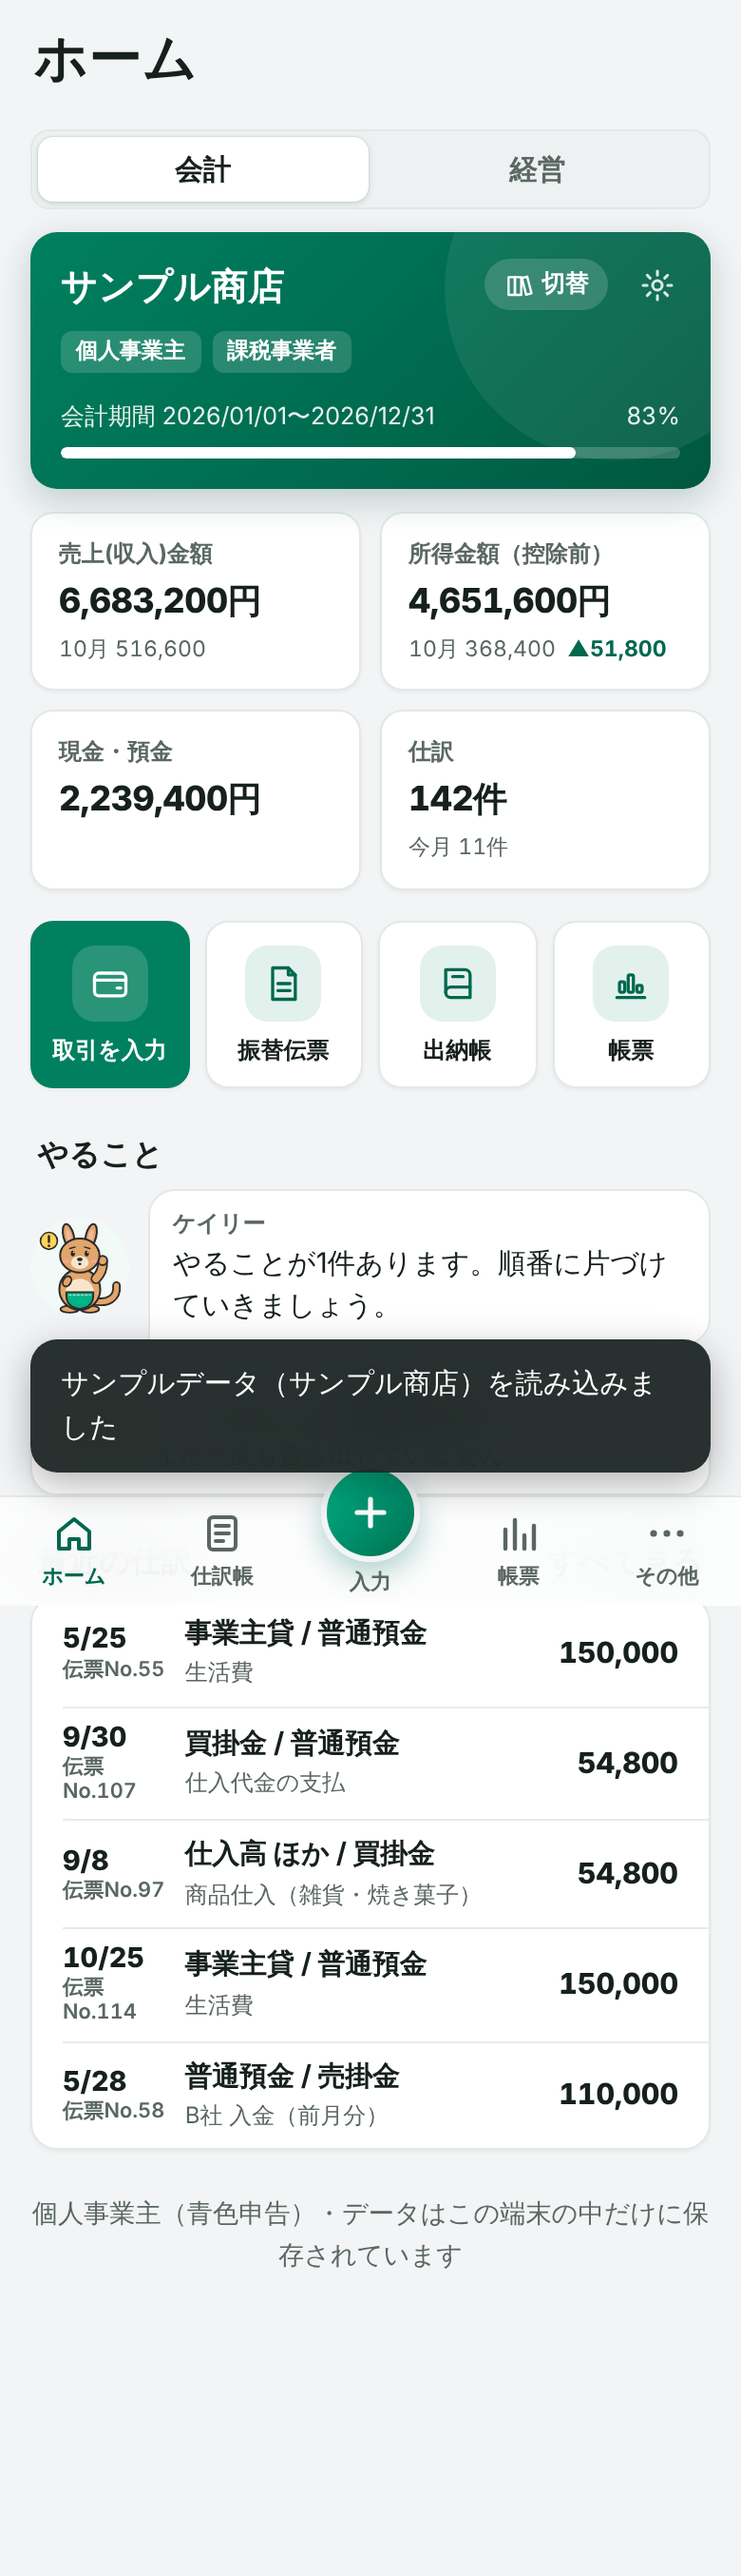
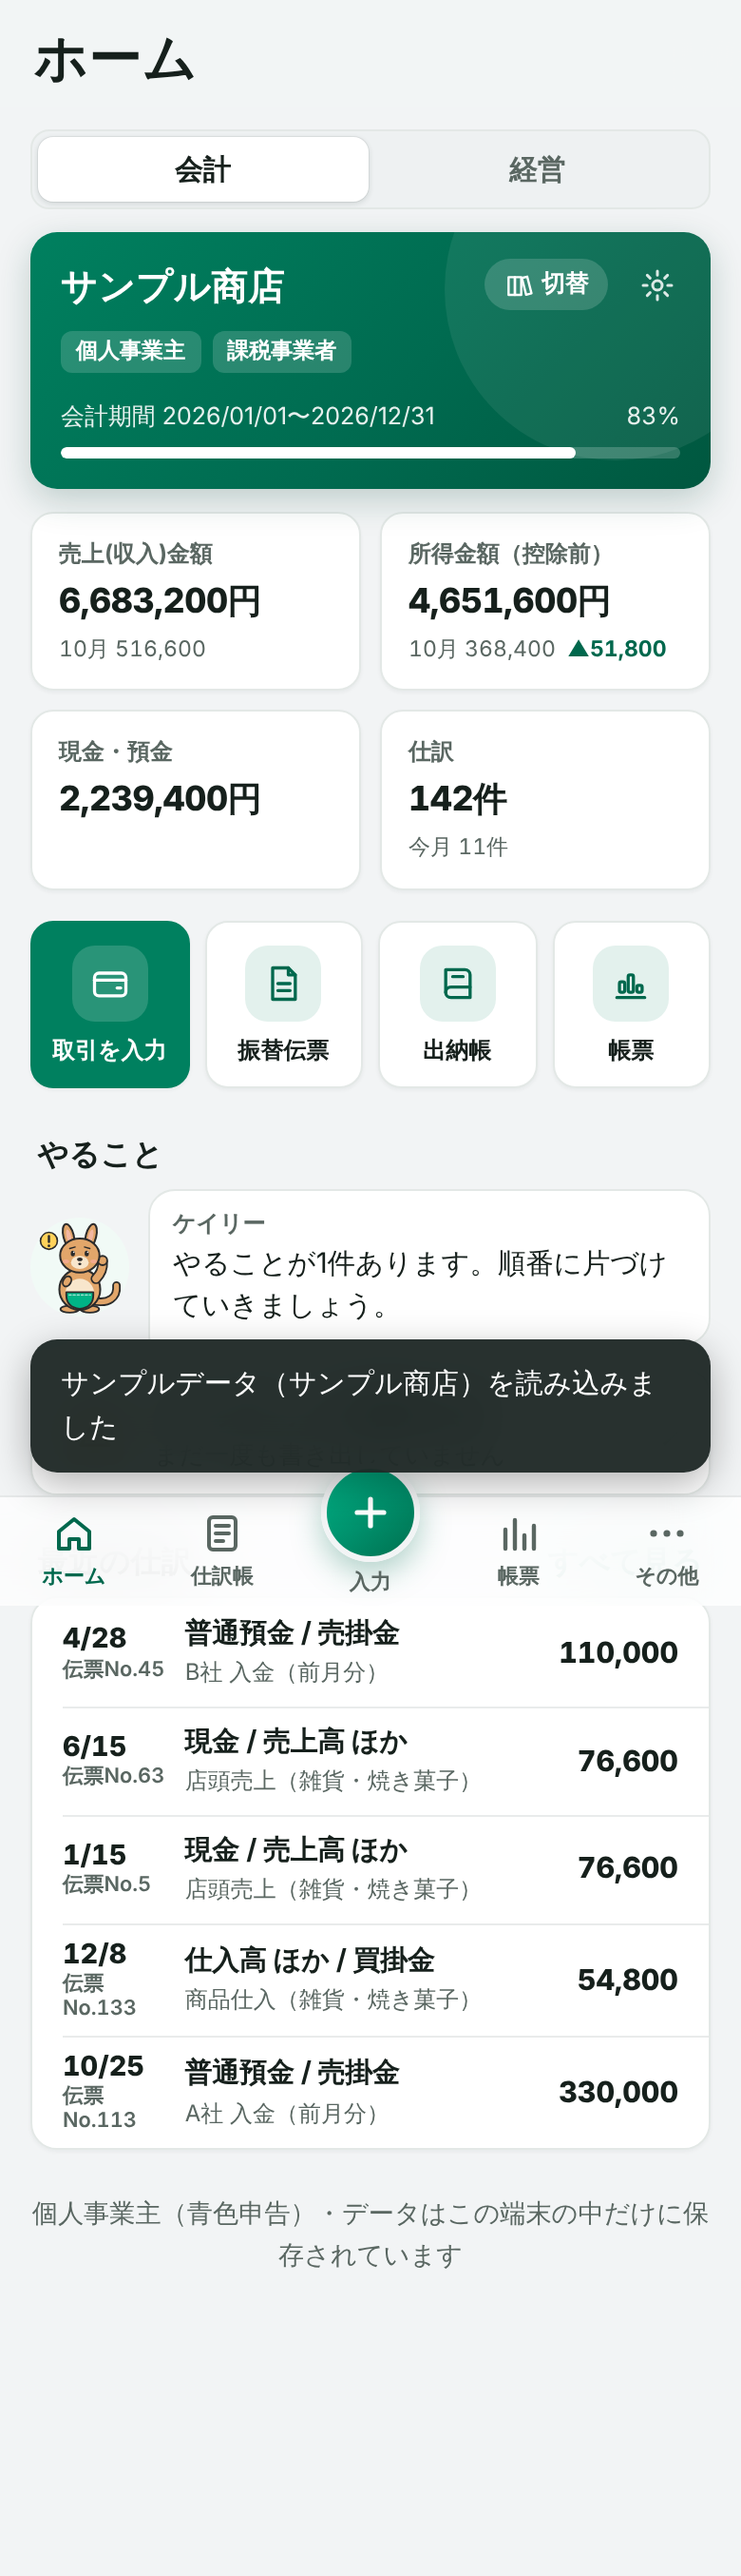
版を v0.93.0・キャッシュ v101 に。更新履歴・仕様書・スクリーンショット
Claude-Session: https://claude.ai/code/session_01S9p1vYnHBJ4ErFDDdxAS1g

diff --git a/js/changelog.js b/js/changelog.js
@@ -9,6 +9,16 @@
 
 export const CHANGELOG = [
   {
+    version: '0.93.0',
+    date: '2026-10-31',
+    title: '事業承継に、引き継ぐときの贈与税・相続税の概算と使える税制を追加',
+    items: [
+      '経営サポートの「事業承継」で、誰に引き継ぐか（子・孫・その他の親族・役員や従業員・第三者）を選ぶと、使える引継ぎ方ごとに税金の目安を並べます',
+      '暦年贈与（年数を分けた場合も）・相続時精算課税・相続（遺贈）・事業承継税制（特例措置）・株式の売却を比べられます。相続税は株式以外の財産と家族構成から計算し、親族外への遺贈は2割加算します',
+      '承継先に合わせて、事業承継税制の期限、精算課税、株価を下げてからの贈与、遺留分の特例、種類株式・持株会、事業承継・引継ぎ支援センターなどを案内します',
+    ],
+  },
+  {
     version: '0.92.0',
     date: '2026-10-31',
     title: '年計を「縦に科目・横に月」の表とグラフに',

diff --git a/sw.js b/sw.js
@@ -1,6 +1,6 @@
 // Service Worker
 // ファイルを変更したら CACHE_VERSION を上げる。ファイルを追加・削除したら PRECACHE_URLS も更新する（npm run check で検出）
-const CACHE_VERSION = 'v100';
+const CACHE_VERSION = 'v101';
 const CACHE_NAME = `pocket-kaikei-${CACHE_VERSION}`;
 
 // 事前にキャッシュするファイル（相対パス）

diff --git a/js/version.js b/js/version.js
@@ -1,2 +1,2 @@
 // 利用者に見せるバージョン。リリースのたびに上げる
-export const APP_VERSION = '0.92.0';
+export const APP_VERSION = '0.93.0';

diff --git a/docs/spec-phase4-advisor.md b/docs/spec-phase4-advisor.md
@@ -124,3 +124,28 @@
 - movingAnnual に rows（科目ごとの monthly・annual・change）を追加。前期だけにある科目も行に出す
 - 表は着地見込みの月別の表と同じ見た目（advisor-grid）。区分ごとの小計・利益の行、最後の列は「増減」（年計）か「合計」（各月の金額）。製造原価の区分は売上原価の前に並べる
 - グラフは js/chart.js の lineChart（1〜2本、null の月は線を切る、見込みの区間は破線）。「売上と利益」か、選んだ科目の年計
+
+## 第9弾：承継先ごとの贈与税・相続税の概算と使える税制（v0.93.0）
+
+- たかと（2026-10-31）：「株価の概算を出したら、承継した場合の相続税又は贈与税の概算も」「誰に承継するのかを選んで、概算や使えそうな税制を提案」
+- 計算は js/advisor/succession-tax.js（test/advisor-succession-tax.test.js）。入力は period.succession.plan（DB の版は不変）
+- 承継先と引継ぎ方
+  - 子：暦年贈与（特例税率）・相続時精算課税・相続・事業承継税制
+  - 孫：暦年贈与（特例税率）・相続時精算課税・遺贈（2割加算）・事業承継税制
+  - その他の親族、役員・従業員：暦年贈与（一般税率）・遺贈（2割加算）・事業承継税制・買取り（譲渡所得の税）
+  - 第三者：株式の売却のみ
+- 端数：課税価格は千円未満切捨て、税額は百円未満切捨て。相続税は法定相続分どおりの総額を株式の割合で按分（配偶者の税額軽減・小規模宅地等・生命保険の非課税は見ない）。子がいないときは配偶者のみ
+- 譲渡：所得税15%＋復興特別所得税（所得税の2.1%）＋住民税5%。取得費が売値の5%未満なら概算取得費5%
+- 事業承継税制（特例措置）：猶予額＝暦年贈与・精算課税の小さい方（親族外は暦年）。今日が令和9年12月31日を過ぎたら使えない表示
+- 出典（2026-10-31 確認）
+
+| 内容 | 出典 |
+|---|---|
+| 贈与税の速算表・特例税率の対象 | 国税庁 No.4408 |
+| 相続時精算課税（基礎控除110万円・特別控除2,500万円・20%） | 国税庁 No.4103 参考 |
+| 相続税の速算表 | 国税庁 No.4155（令和8年4月1日現在法令等） |
+| 相続税額の2割加算 | 国税庁 No.4157 |
+| 相続開始前の贈与の加算（7年へ段階的に延長） | 国税庁 No.4161 |
+| 特例承継計画の提出 令和9年9月30日まで、贈与・相続 令和9年12月31日まで、親族外も可（最大3人） | 中小企業庁「事業承継税制（法人版）」 |
+
+- 未確認：一般措置の数字（議決権3分の2・相続80%）、贈与時の役員3年以上などの要件は一般に知られた内容で、中小企業庁のページ本文では確かめていない
